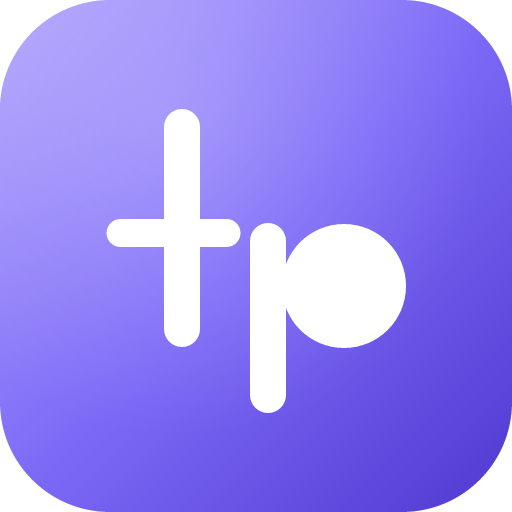
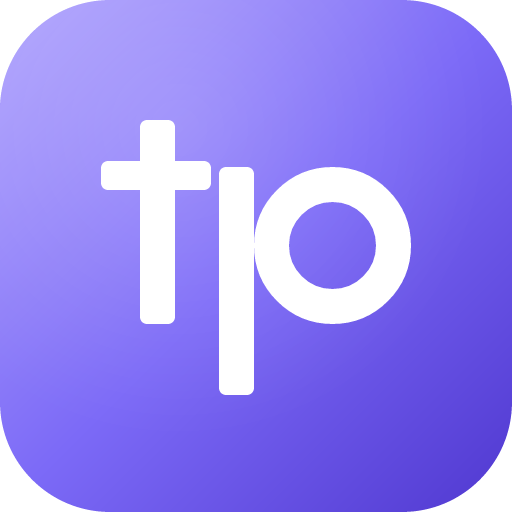
deploy: b18737ff45a7724cb4765f46fa5910b9754da9c2

Changed region(s): [[0.1875, 0.1875, 0.8125, 0.8125]]

diff --git a/sw.js b/sw.js
@@ -1,1 +1,1 @@
-if(!self.define){let e,i={};const s=(s,n)=>(s=new URL(s+".js",n).href,i[s]||new Promise(i=>{if("document"in self){const e=document.createElement("script");e.src=s,e.onload=i,document.head.appendChild(e)}else e=s,importScripts(s),i()}).then(()=>{let e=i[s];if(!e)throw new Error(`Module ${s} didn’t register its module`);return e}));self.define=(n,r)=>{const o=e||("document"in self?document.currentScript.src:"")||location.href;if(i[o])return;let c={};const t=e=>s(e,o),f={module:{uri:o},exports:c,require:t};i[o]=Promise.all(n.map(e=>f[e]||t(e))).then(e=>(r(...e),c))}}define(["./workbox-0bb07689"],function(e){"use strict";self.skipWaiting(),e.clientsClaim(),e.precacheAndRoute([{url:"registerSW.js",revision:"f7ca51746d9017a3bcd0f4523efec7fb"},{url:"index.html",revision:"eb7eae3a8729641d7d1d44f3a741334c"},{url:"icon.svg",revision:"c389a6055beb63b433b4b9d838c700e7"},{url:"icon-512.png",revision:"3cbdbe29bb07480e9b63d219bcefba2e"},{url:"favicon.svg",revision:"416020f7bded911e93afd2cc1cf78fa2"},{url:"assets/index-yCvgLsa-.js",revision:null},{url:"assets/index-BobfOVG5.css",revision:null},{url:"icon-512.png",revision:"3cbdbe29bb07480e9b63d219bcefba2e"},{url:"manifest.webmanifest",revision:"9eae39ff1de35512284c04c38656328f"}],{}),e.cleanupOutdatedCaches()});
+if(!self.define){let e,i={};const s=(s,n)=>(s=new URL(s+".js",n).href,i[s]||new Promise(i=>{if("document"in self){const e=document.createElement("script");e.src=s,e.onload=i,document.head.appendChild(e)}else e=s,importScripts(s),i()}).then(()=>{let e=i[s];if(!e)throw new Error(`Module ${s} didn’t register its module`);return e}));self.define=(n,r)=>{const o=e||("document"in self?document.currentScript.src:"")||location.href;if(i[o])return;let c={};const f=e=>s(e,o),t={module:{uri:o},exports:c,require:f};i[o]=Promise.all(n.map(e=>t[e]||f(e))).then(e=>(r(...e),c))}}define(["./workbox-0bb07689"],function(e){"use strict";self.skipWaiting(),e.clientsClaim(),e.precacheAndRoute([{url:"registerSW.js",revision:"f7ca51746d9017a3bcd0f4523efec7fb"},{url:"index.html",revision:"eb7eae3a8729641d7d1d44f3a741334c"},{url:"icon.svg",revision:"1c8ae3ebd451275cf556d4dfc78d7e48"},{url:"icon-512.png",revision:"84f47e702c69e74a6eecd9fad640294b"},{url:"favicon.svg",revision:"416020f7bded911e93afd2cc1cf78fa2"},{url:"assets/index-yCvgLsa-.js",revision:null},{url:"assets/index-BobfOVG5.css",revision:null},{url:"icon-512.png",revision:"84f47e702c69e74a6eecd9fad640294b"},{url:"manifest.webmanifest",revision:"9eae39ff1de35512284c04c38656328f"}],{}),e.cleanupOutdatedCaches()});
